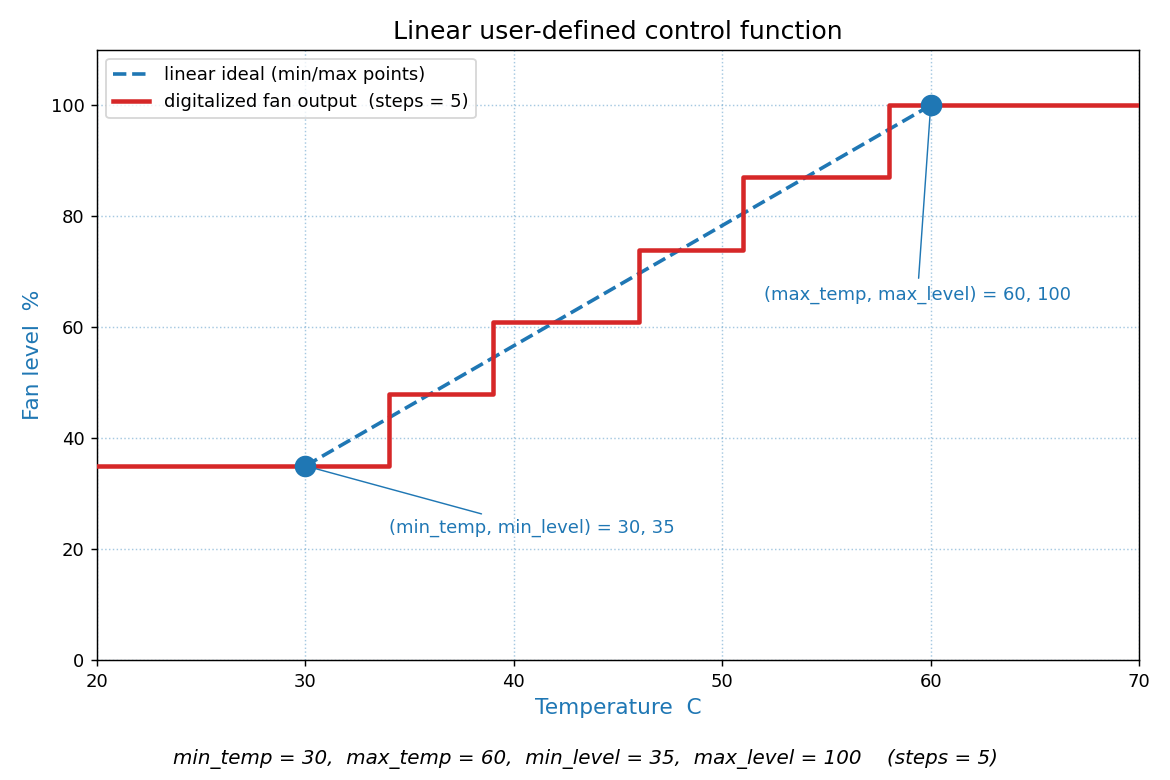
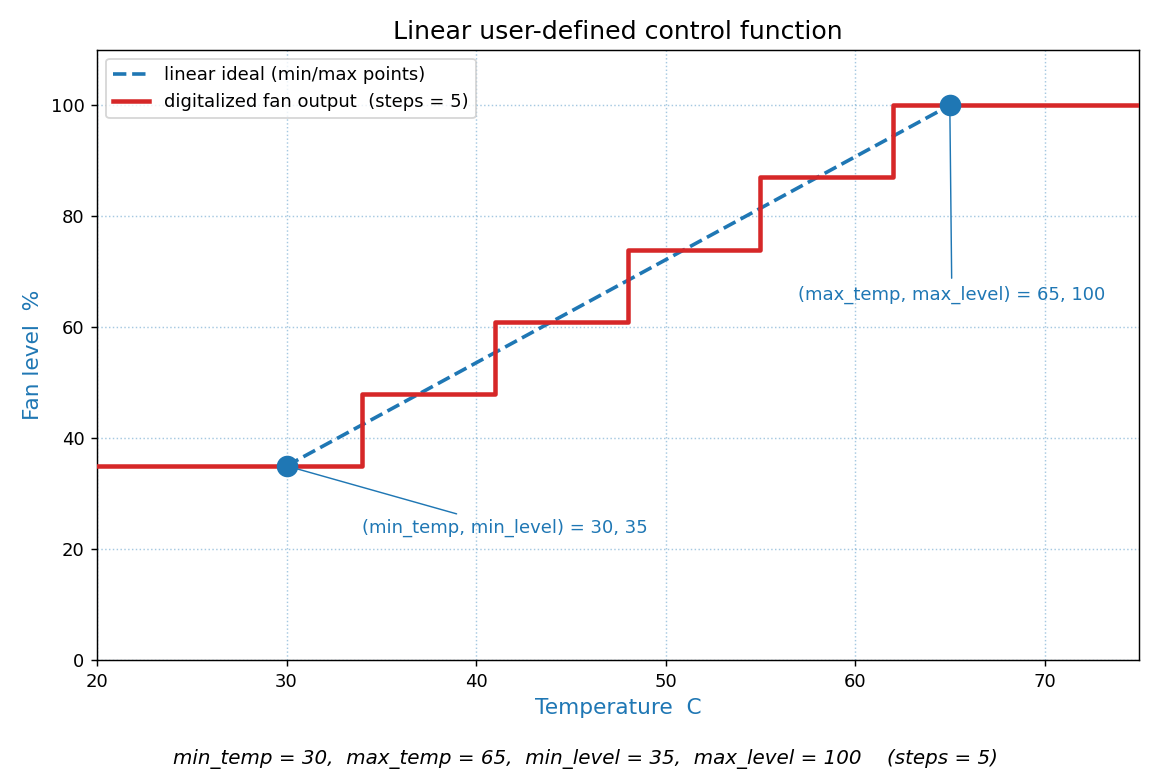
Change: tmp corrected.

diff --git a/README.md b/README.md
@@ -172,13 +172,16 @@ The simple form maps a single temperature interval `[min_temp..max_temp]` linear
 
 ```ini
      min_temp=30
-     max_temp=60
+     max_temp=65
      min_level=35
      max_level=100
      steps=5
 ```
 
  <img src="https://github.com/petersulyok/smfc/raw/main/doc/linear_control_function.png" align="center" width="500">
+
+
+The dashed blue line shows the continuous linear ideal between `(min_temp, min_level)` and `(max_temp, max_level)`; the solid red staircase is the digitalized output actually applied to the fan (here with `steps=5`, producing 6 plateaus: one pinned at each endpoint plus four in the interior).
 
 > Sample configurations using the linear form are available in [`config/samples/`](https://github.com/petersulyok/smfc/tree/main/config/samples) — for example [`smfc-sample1.conf`](https://github.com/petersulyok/smfc/blob/main/config/samples/smfc-sample1.conf) (CPU only), [`smfc-sample2.conf`](https://github.com/petersulyok/smfc/blob/main/config/samples/smfc-sample2.conf) (HD with standby guard), [`smfc-sample4.conf`](https://github.com/petersulyok/smfc/blob/main/config/samples/smfc-sample4.conf) (CPU + HD hybrid), and [`smfc-sample8.conf`](https://github.com/petersulyok/smfc/blob/main/config/samples/smfc-sample8.conf) (multiple fan curves per zone).
 